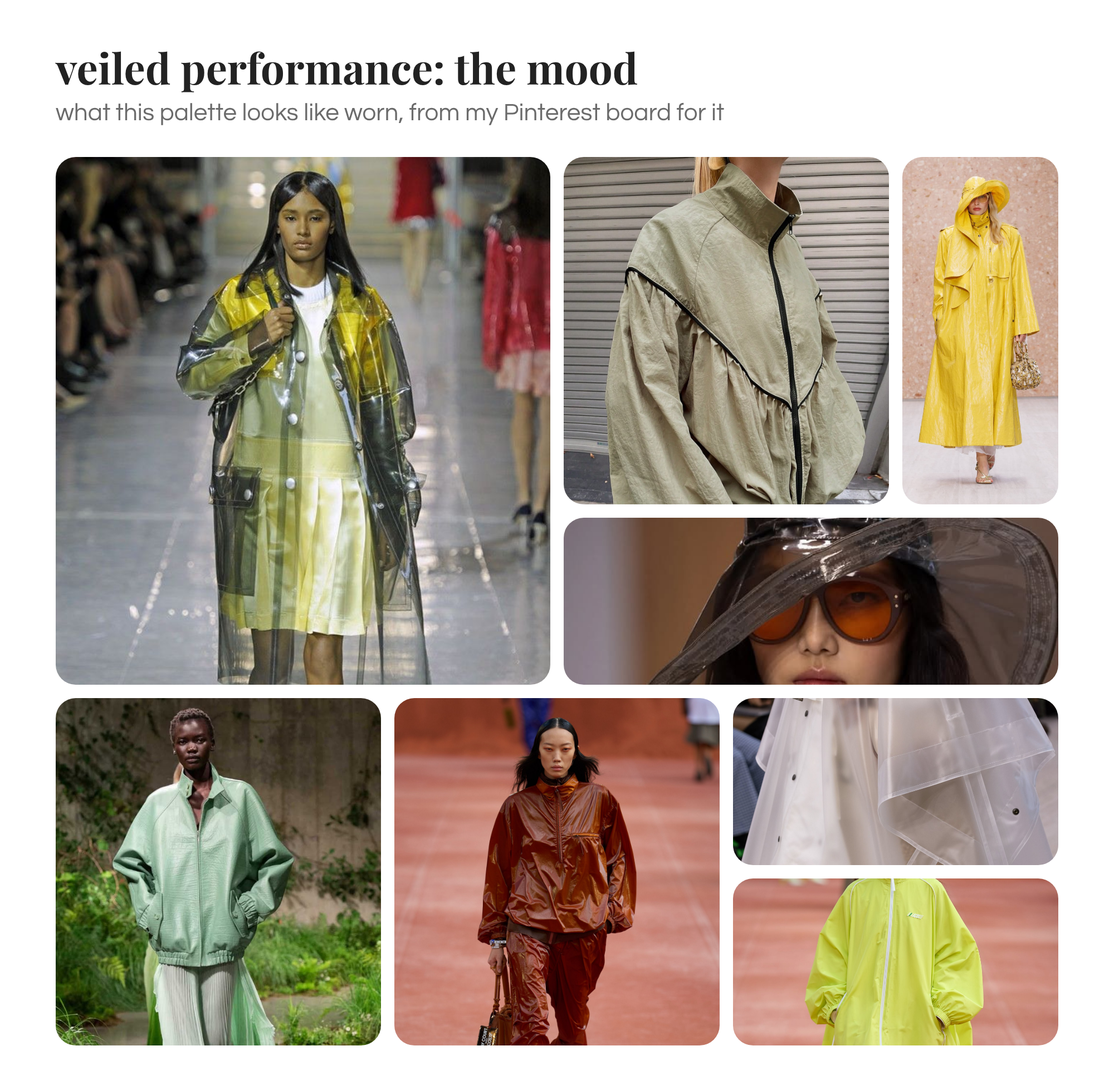
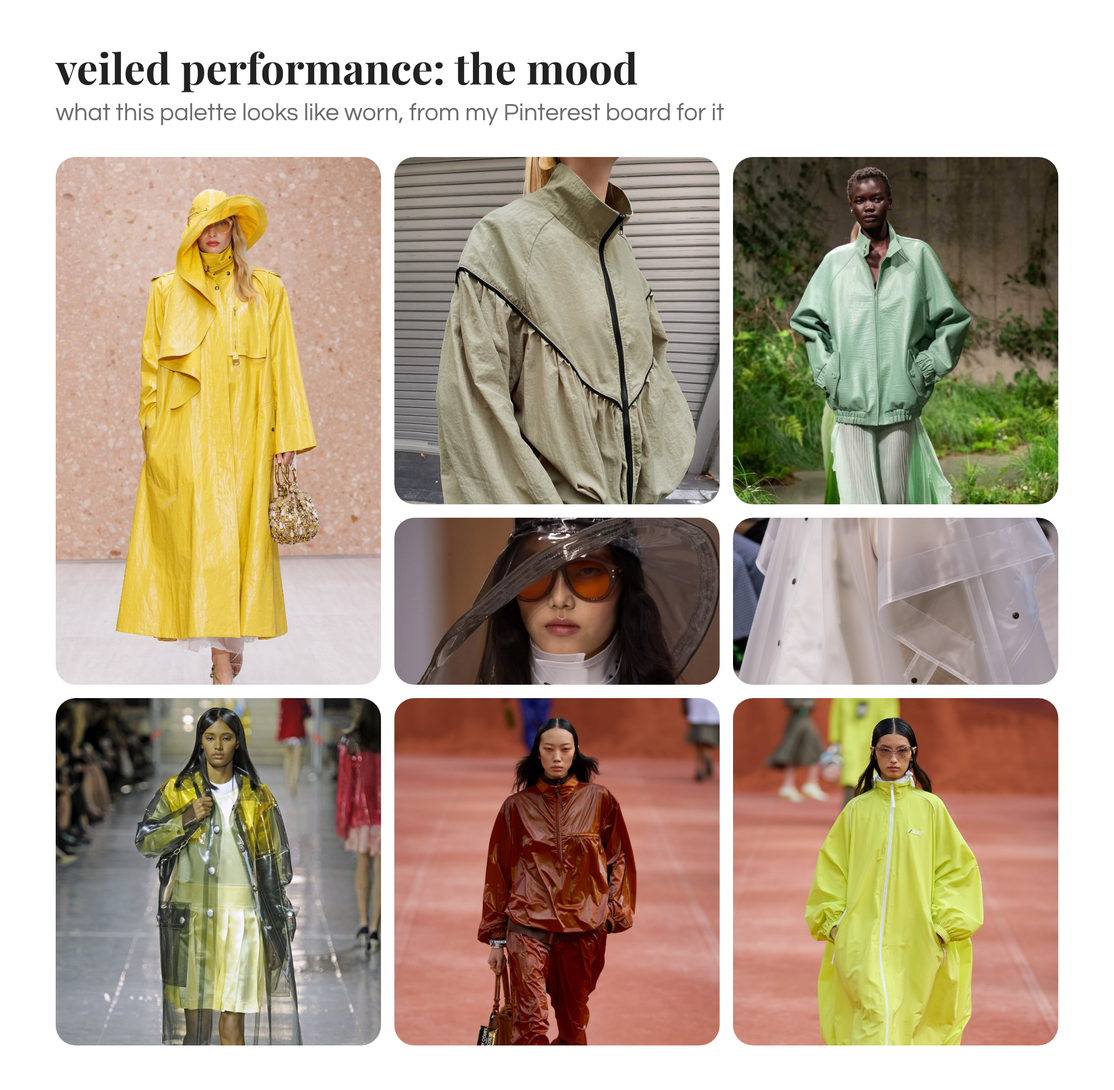
FW27 mood collages: moderate irregular grid, Carmen's Heritage Craft picks
Claude-Session: https://claude.ai/code/session_01N7aeZaURyexD9YLQTk163X

diff --git a/drafts/fw27-forecast-charts/collages/19-mood-veiled-performance.html b/drafts/fw27-forecast-charts/collages/19-mood-veiled-performance.html
@@ -1,1 +1,1 @@
-<!doctype html><html><head><meta charset="utf-8"><link href="https://fonts.googleapis.com/css2?family=Playfair+Display:wght@700&family=Questrial&display=swap" rel="stylesheet"><style>body{margin:0;background:#fff}#card{width:1000px;background:#fff;box-sizing:border-box;padding:40px 50px 40px;font-family:'Century Gothic','Questrial',sans-serif;color:#222}h1{font-family:'Playfair Display',Georgia,serif;font-weight:700;font-size:38px;margin:0 0 8px;line-height:1.1}.sub{font-size:22px;color:#6B6B6B;margin:0 0 28px}.grid{display:grid;grid-template-columns:repeat(6,1fr);grid-template-rows:repeat(5,150px);gap:12px}.c{border-radius:18px;overflow:hidden} .c img{width:100%;height:100%;object-fit:cover;display:block}</style></head><body><div id="card"><h1>veiled performance: the mood</h1><p class="sub">what this palette looks like worn, from my Pinterest board for it</p><div class="grid"><div class="c" style="grid-area:1/1/4/4"><img src="../pinterest/veiled-performance/pin05.jpg" style="object-position:top"></div><div class="c" style="grid-area:1/4/3/6"><img src="../pinterest/veiled-performance/pin01.jpg" style="object-position:top"></div><div class="c" style="grid-area:1/6/3/7"><img src="../pinterest/veiled-performance/pin10.jpg" style="object-position:top"></div><div class="c" style="grid-area:3/4/4/7"><img src="../pinterest/veiled-performance/pin14.jpg" style="object-position:center 30%"></div><div class="c" style="grid-area:4/1/6/3"><img src="../pinterest/veiled-performance/pin12.jpg" style="object-position:top"></div><div class="c" style="grid-area:4/3/6/5"><img src="../pinterest/veiled-performance/pin13.jpg" style="object-position:top"></div><div class="c" style="grid-area:4/5/5/7"><img src="../pinterest/veiled-performance/pin17.jpg" style="object-position:center 30%"></div><div class="c" style="grid-area:5/5/6/7"><img src="../pinterest/veiled-performance/pin24.jpg" style="object-position:center 30%"></div></div></div></body></html>
+<!doctype html><html><head><meta charset="utf-8"><link href="https://fonts.googleapis.com/css2?family=Playfair+Display:wght@700&family=Questrial&display=swap" rel="stylesheet"><style>body{margin:0;background:#fff}#card{width:1000px;background:#fff;box-sizing:border-box;padding:40px 50px 40px;font-family:'Century Gothic','Questrial',sans-serif;color:#222}h1{font-family:'Playfair Display',Georgia,serif;font-weight:700;font-size:38px;margin:0 0 8px;line-height:1.1}.sub{font-size:22px;color:#6B6B6B;margin:0 0 28px}.grid{display:grid;grid-template-columns:repeat(6,1fr);grid-template-rows:repeat(5,150px);gap:12px}.c{border-radius:18px;overflow:hidden} .c img{width:100%;height:100%;object-fit:cover;display:block}</style></head><body><div id="card"><h1>veiled performance: the mood</h1><p class="sub">what this palette looks like worn, from my Pinterest board for it</p><div class="grid"><div class="c" style="grid-area:1/1/4/3"><img src="../pinterest/veiled-performance/pin10.jpg" style="object-position:top"></div><div class="c" style="grid-area:1/3/3/5"><img src="../pinterest/veiled-performance/pin01.jpg" style="object-position:top"></div><div class="c" style="grid-area:1/5/3/7"><img src="../pinterest/veiled-performance/pin12.jpg" style="object-position:top"></div><div class="c" style="grid-area:3/3/4/5"><img src="../pinterest/veiled-performance/pin14.jpg" style="object-position:center 35%"></div><div class="c" style="grid-area:3/5/4/7"><img src="../pinterest/veiled-performance/pin17.jpg" style="object-position:center 35%"></div><div class="c" style="grid-area:4/1/6/3"><img src="../pinterest/veiled-performance/pin05.jpg" style="object-position:top"></div><div class="c" style="grid-area:4/3/6/5"><img src="../pinterest/veiled-performance/pin13.jpg" style="object-position:top"></div><div class="c" style="grid-area:4/5/6/7"><img src="../pinterest/veiled-performance/pin24.jpg" style="object-position:top"></div></div></div></body></html>

diff --git a/drafts/fw27-forecast-charts/collages/19-mood-heritage-craft.html b/drafts/fw27-forecast-charts/collages/19-mood-heritage-craft.html
@@ -1,1 +1,1 @@
-<!doctype html><html><head><meta charset="utf-8"><link href="https://fonts.googleapis.com/css2?family=Playfair+Display:wght@700&family=Questrial&display=swap" rel="stylesheet"><style>body{margin:0;background:#fff}#card{width:1000px;background:#fff;box-sizing:border-box;padding:40px 50px 40px;font-family:'Century Gothic','Questrial',sans-serif;color:#222}h1{font-family:'Playfair Display',Georgia,serif;font-weight:700;font-size:38px;margin:0 0 8px;line-height:1.1}.sub{font-size:22px;color:#6B6B6B;margin:0 0 28px}.grid{display:grid;grid-template-columns:repeat(6,1fr);grid-template-rows:repeat(5,150px);gap:12px}.c{border-radius:18px;overflow:hidden} .c img{width:100%;height:100%;object-fit:cover;display:block}</style></head><body><div id="card"><h1>heritage craft: the mood</h1><p class="sub">what this palette looks like worn, from my Pinterest board for it</p><div class="grid"><div class="c" style="grid-area:1/1/4/4"><img src="../pinterest/heritage-craft/pin02.jpg" style="object-position:top"></div><div class="c" style="grid-area:1/4/3/6"><img src="../pinterest/heritage-craft/pin09.jpg" style="object-position:top"></div><div class="c" style="grid-area:1/6/3/7"><img src="../pinterest/heritage-craft/pin05.jpg" style="object-position:top"></div><div class="c" style="grid-area:3/4/4/7"><img src="../pinterest/heritage-craft/pin04.jpg" style="object-position:center 30%"></div><div class="c" style="grid-area:4/1/6/3"><img src="../pinterest/heritage-craft/pin11.jpg" style="object-position:top"></div><div class="c" style="grid-area:4/3/6/5"><img src="../pinterest/heritage-craft/pin20.jpg" style="object-position:top"></div><div class="c" style="grid-area:4/5/5/7"><img src="../pinterest/heritage-craft/pin12.jpg" style="object-position:center 30%"></div><div class="c" style="grid-area:5/5/6/7"><img src="../pinterest/heritage-craft/pin06.jpg" style="object-position:center 30%"></div></div></div></body></html>
+<!doctype html><html><head><meta charset="utf-8"><link href="https://fonts.googleapis.com/css2?family=Playfair+Display:wght@700&family=Questrial&display=swap" rel="stylesheet"><style>body{margin:0;background:#fff}#card{width:1000px;background:#fff;box-sizing:border-box;padding:40px 50px 40px;font-family:'Century Gothic','Questrial',sans-serif;color:#222}h1{font-family:'Playfair Display',Georgia,serif;font-weight:700;font-size:38px;margin:0 0 8px;line-height:1.1}.sub{font-size:22px;color:#6B6B6B;margin:0 0 28px}.grid{display:grid;grid-template-columns:repeat(6,1fr);grid-template-rows:repeat(5,150px);gap:12px}.c{border-radius:18px;overflow:hidden} .c img{width:100%;height:100%;object-fit:cover;display:block}</style></head><body><div id="card"><h1>heritage craft: the mood</h1><p class="sub">what this palette looks like worn, from my Pinterest board for it</p><div class="grid"><div class="c" style="grid-area:1/1/4/3"><img src="../pinterest/heritage-craft/pin10.jpg" style="object-position:top"></div><div class="c" style="grid-area:1/3/3/5"><img src="../pinterest/heritage-craft/carmen-01.jpg" style="object-position:top"></div><div class="c" style="grid-area:1/5/3/7"><img src="../pinterest/heritage-craft/carmen-02.jpg" style="object-position:top"></div><div class="c" style="grid-area:3/3/4/5"><img src="../pinterest/heritage-craft/pin04.jpg" style="object-position:center 35%"></div><div class="c" style="grid-area:3/5/4/7"><img src="../pinterest/heritage-craft/pin12.jpg" style="object-position:center 35%"></div><div class="c" style="grid-area:4/1/6/3"><img src="../pinterest/heritage-craft/pin09.jpg" style="object-position:top"></div><div class="c" style="grid-area:4/3/6/5"><img src="../pinterest/heritage-craft/pin11.jpg" style="object-position:top"></div><div class="c" style="grid-area:4/5/6/7"><img src="../pinterest/heritage-craft/pin20.jpg" style="object-position:top"></div></div></div></body></html>

diff --git a/drafts/fw27-forecast-charts/collages/19-mood-sensory-riot.html b/drafts/fw27-forecast-charts/collages/19-mood-sensory-riot.html
@@ -1,1 +1,1 @@
-<!doctype html><html><head><meta charset="utf-8"><link href="https://fonts.googleapis.com/css2?family=Playfair+Display:wght@700&family=Questrial&display=swap" rel="stylesheet"><style>body{margin:0;background:#fff}#card{width:1000px;background:#fff;box-sizing:border-box;padding:40px 50px 40px;font-family:'Century Gothic','Questrial',sans-serif;color:#222}h1{font-family:'Playfair Display',Georgia,serif;font-weight:700;font-size:38px;margin:0 0 8px;line-height:1.1}.sub{font-size:22px;color:#6B6B6B;margin:0 0 28px}.grid{display:grid;grid-template-columns:repeat(6,1fr);grid-template-rows:repeat(5,150px);gap:12px}.c{border-radius:18px;overflow:hidden} .c img{width:100%;height:100%;object-fit:cover;display:block}</style></head><body><div id="card"><h1>sensory riot: the mood</h1><p class="sub">what this palette looks like worn, from my Pinterest board for it</p><div class="grid"><div class="c" style="grid-area:1/1/4/4"><img src="../pinterest/sensory-riot/pin07.jpg" style="object-position:top"></div><div class="c" style="grid-area:1/4/3/6"><img src="../pinterest/sensory-riot/pin02.jpg" style="object-position:top"></div><div class="c" style="grid-area:1/6/3/7"><img src="../pinterest/sensory-riot/pin05.jpg" style="object-position:top"></div><div class="c" style="grid-area:3/4/4/7"><img src="../pinterest/sensory-riot/pin09.jpg" style="object-position:center 30%"></div><div class="c" style="grid-area:4/1/6/3"><img src="../pinterest/sensory-riot/pin11.jpg" style="object-position:top"></div><div class="c" style="grid-area:4/3/6/5"><img src="../pinterest/sensory-riot/pin24.jpg" style="object-position:top"></div><div class="c" style="grid-area:4/5/5/7"><img src="../pinterest/sensory-riot/pin17.jpg" style="object-position:center 30%"></div><div class="c" style="grid-area:5/5/6/7"><img src="../pinterest/sensory-riot/pin19.jpg" style="object-position:center 30%"></div></div></div></body></html>
+<!doctype html><html><head><meta charset="utf-8"><link href="https://fonts.googleapis.com/css2?family=Playfair+Display:wght@700&family=Questrial&display=swap" rel="stylesheet"><style>body{margin:0;background:#fff}#card{width:1000px;background:#fff;box-sizing:border-box;padding:40px 50px 40px;font-family:'Century Gothic','Questrial',sans-serif;color:#222}h1{font-family:'Playfair Display',Georgia,serif;font-weight:700;font-size:38px;margin:0 0 8px;line-height:1.1}.sub{font-size:22px;color:#6B6B6B;margin:0 0 28px}.grid{display:grid;grid-template-columns:repeat(6,1fr);grid-template-rows:repeat(5,150px);gap:12px}.c{border-radius:18px;overflow:hidden} .c img{width:100%;height:100%;object-fit:cover;display:block}</style></head><body><div id="card"><h1>sensory riot: the mood</h1><p class="sub">what this palette looks like worn, from my Pinterest board for it</p><div class="grid"><div class="c" style="grid-area:1/1/4/3"><img src="../pinterest/sensory-riot/pin24.jpg" style="object-position:top"></div><div class="c" style="grid-area:1/3/3/5"><img src="../pinterest/sensory-riot/pin11.jpg" style="object-position:top"></div><div class="c" style="grid-area:1/5/3/7"><img src="../pinterest/sensory-riot/pin05.jpg" style="object-position:top"></div><div class="c" style="grid-area:3/3/4/5"><img src="../pinterest/sensory-riot/pin09.jpg" style="object-position:center 35%"></div><div class="c" style="grid-area:3/5/4/7"><img src="../pinterest/sensory-riot/pin17.jpg" style="object-position:center 35%"></div><div class="c" style="grid-area:4/1/6/3"><img src="../pinterest/sensory-riot/pin07.jpg" style="object-position:top"></div><div class="c" style="grid-area:4/3/6/5"><img src="../pinterest/sensory-riot/pin02.jpg" style="object-position:top"></div><div class="c" style="grid-area:4/5/6/7"><img src="../pinterest/sensory-riot/pin19.jpg" style="object-position:top"></div></div></div></body></html>
